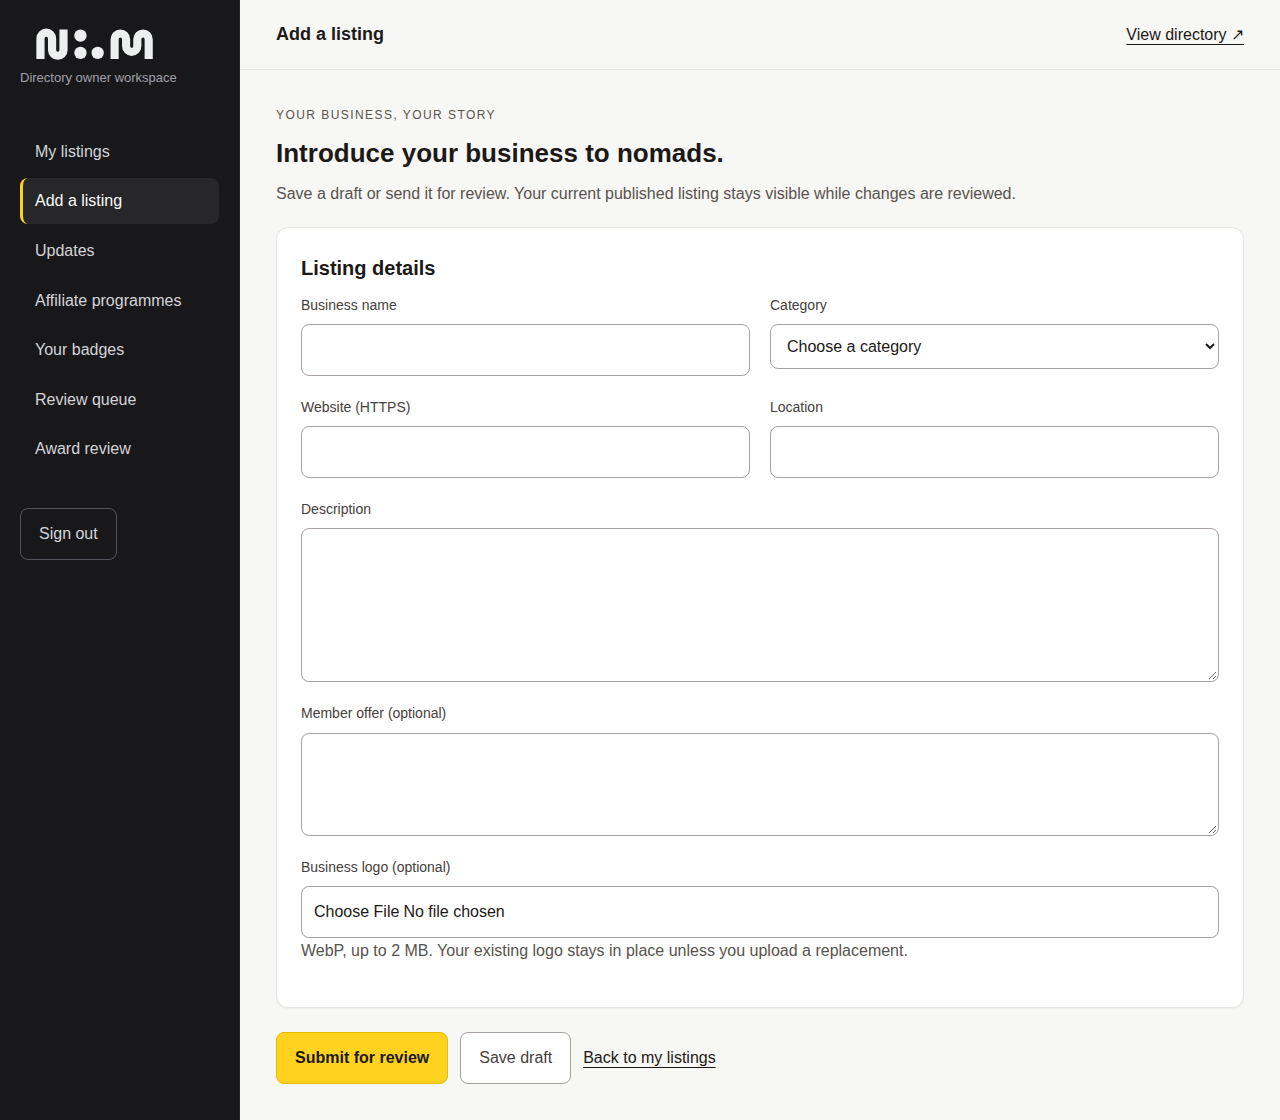
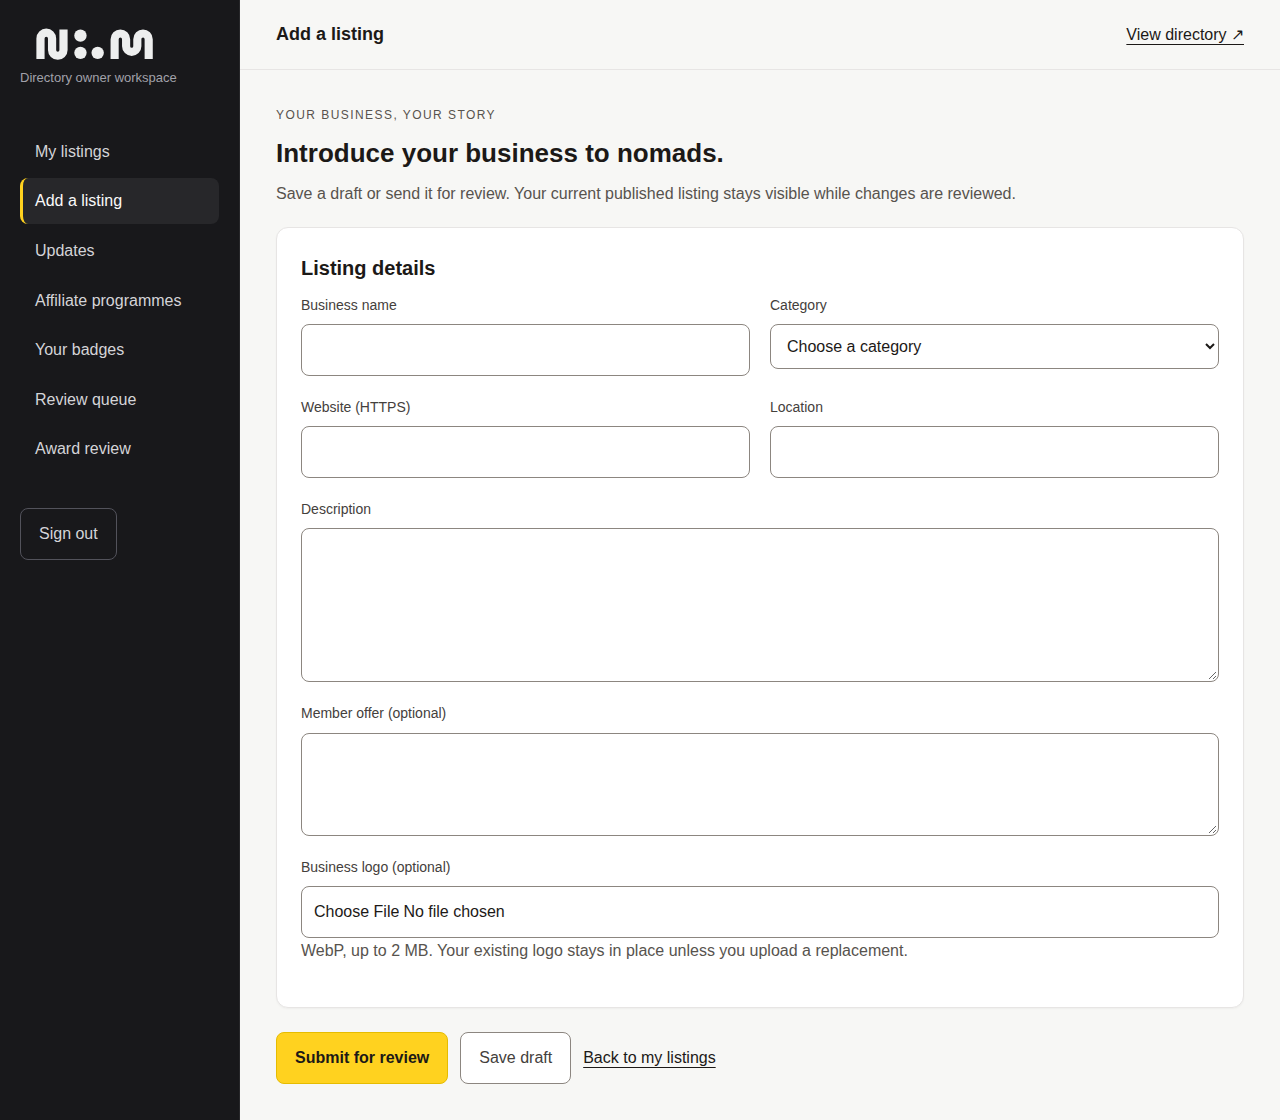
Darken console input and secondary button borders to 3:1

diff --git a/src/styles/console.css b/src/styles/console.css
@@ -154,7 +154,7 @@
 .owner-console .button.secondary {
   background: #fff;
   color: #44403c;
-  border-color: #a8a29e;
+  border-color: #8c8680;
   font-weight: 500;
 }
 .owner-console .button.secondary:hover {
@@ -233,7 +233,7 @@
   display: block;
   width: 100%;
   background: #fff;
-  border: 1px solid #a8a29e;
+  border: 1px solid #8c8680;
   border-radius: 8px;
   color: #1c1917;
   padding: 12px;
